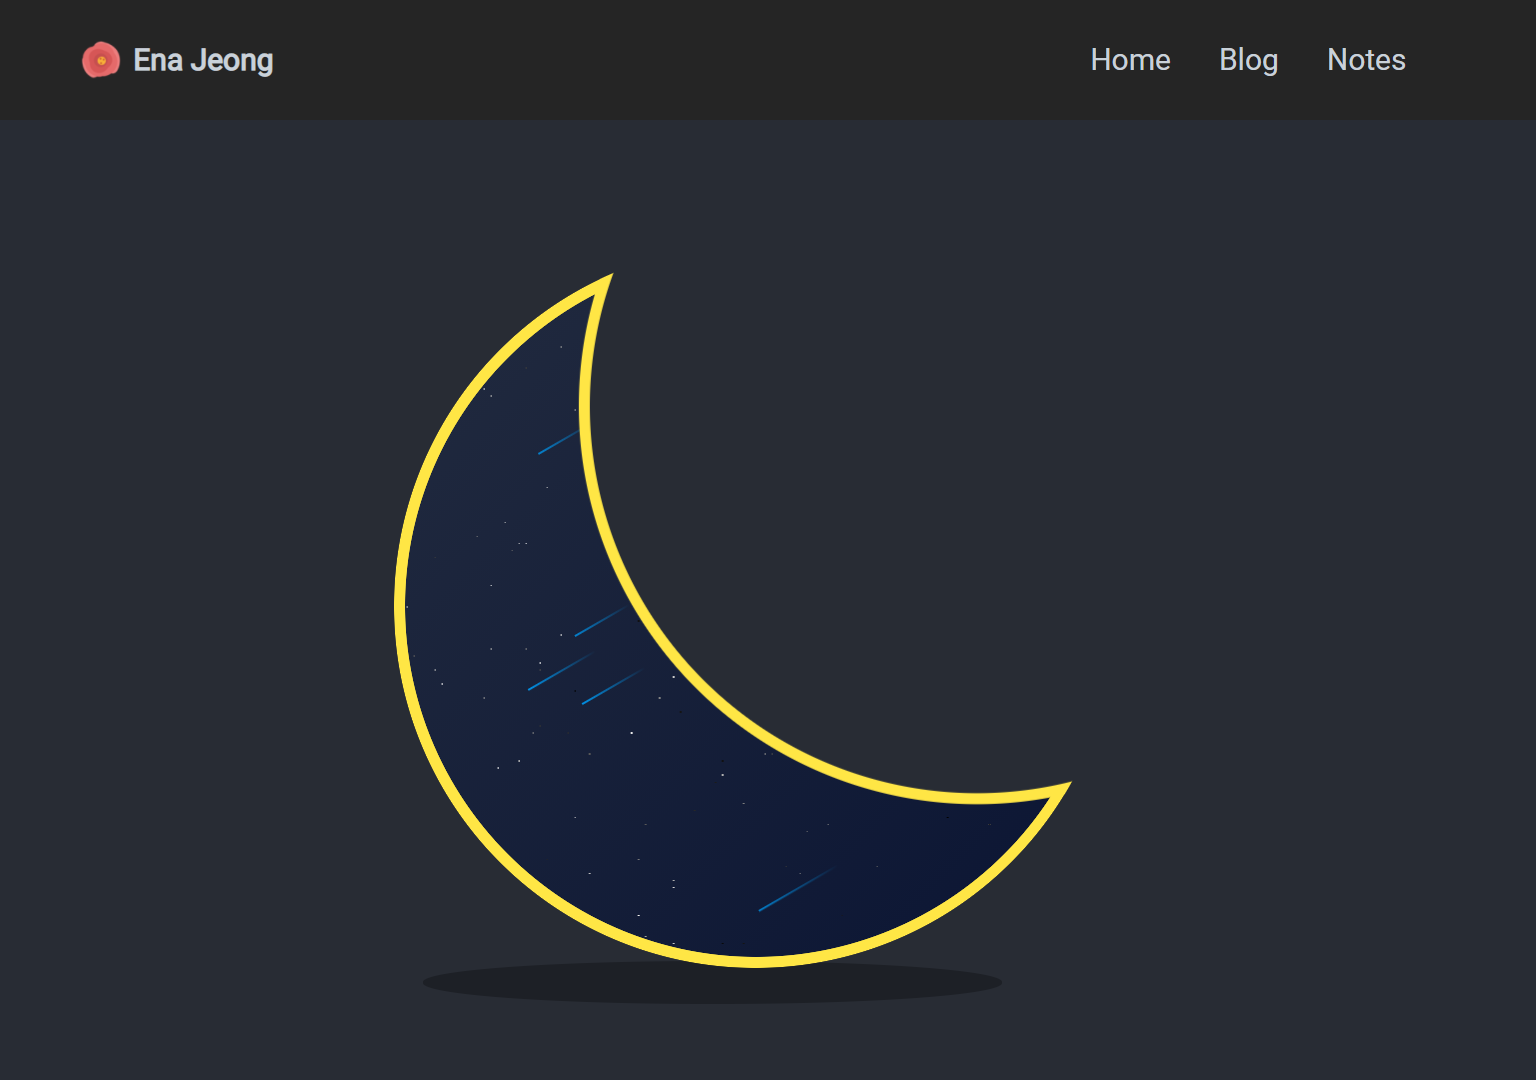
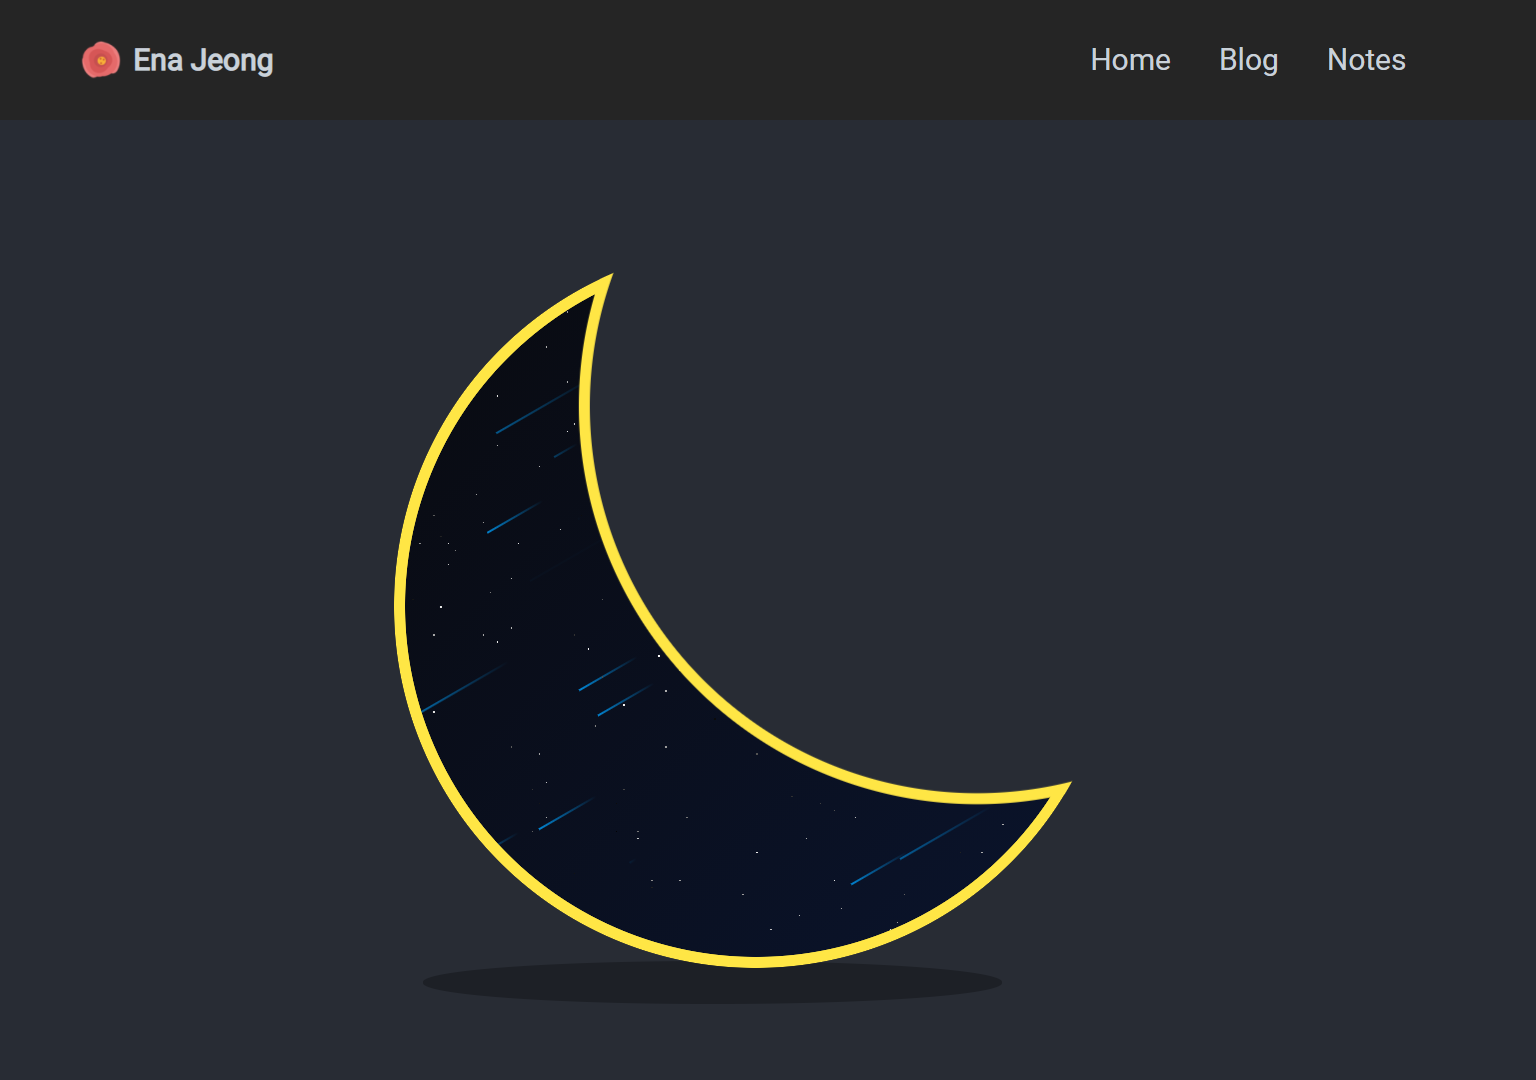
Update main home

Changed region(s): [[0.25, 0.275, 0.4688, 0.825]]

diff --git a/_sass/layout/_home.scss b/_sass/layout/_home.scss
@@ -65,7 +65,7 @@
     position: absolute;
     width: 100%;
     height: 100%;
-    background: linear-gradient(-45deg, #0a1433 0%,#222b3f 100%);
+    background: linear-gradient(-45deg, #0A142D 0%,#090A0F 100%);
     border-radius: 100%;
     overflow: hidden;
     /* fix safari border-radius and overflow hidden problem */

diff --git a/pages/_posts/2021-02-05-Customizing-Jekyll-Blog-2-Home.md b/pages/_posts/2021-02-05-Customizing-Jekyll-Blog-2-Home.md
@@ -11,7 +11,7 @@ Home 화면을 계속 비워두려다가 CSS의 애니메이션 효과를 다양
 
 어두운 테마인 내 블로그에 그냥 사용하기에는 너무 밝았고, `div`를 더 추가해 노란색 테두리만 표현하기로 했다.
 
-그림자도 어두운 색으로 바꾸고 달은 조금 더 통통하게 만들고 기울여서 완성.
+그림자와 밤하늘을 어두운 색으로 바꾸고 달은 조금 더 통통하게 만들고 기울여서 완성.
 
 <br>
 
